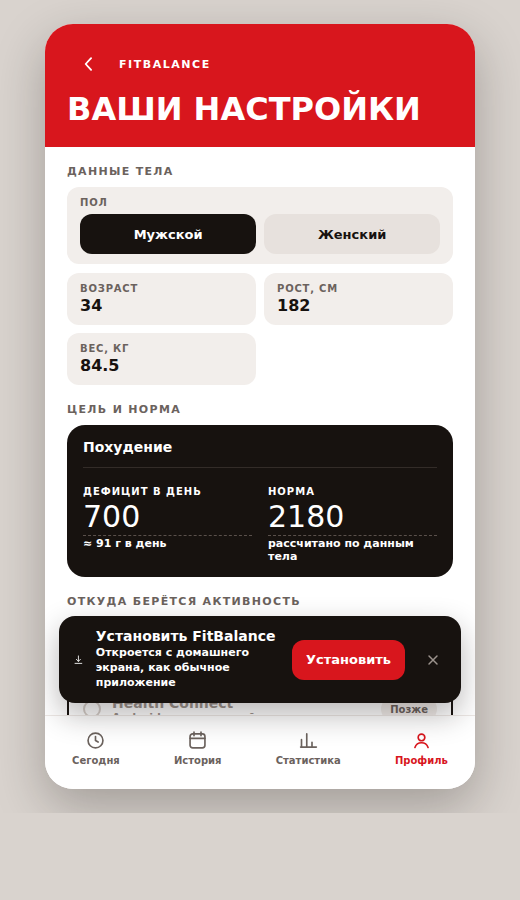
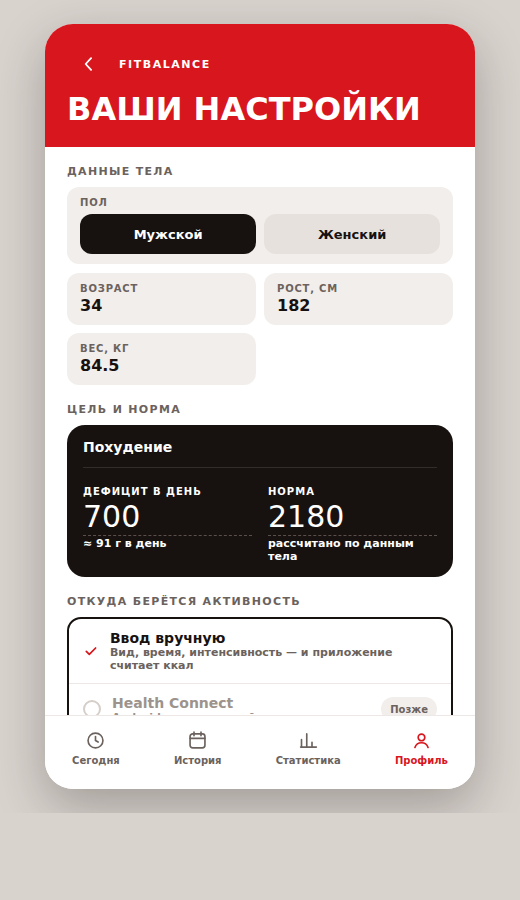
Explain where the cloud API key comes from
The key field said what the key was for but not how to get one, which leaves
the feature unusable to anyone who has not already got an account. The
profile now carries the steps and a link to the provider's key page.

The endpoint is a free-text field, so the hint follows it: DeepSeek, OpenAI
and Google AI Studio each get their own wording and link, anything else falls
back to "your provider's own dashboard" with no link rather than a wrong one.
The match is on the host, because Gemini's compatibility endpoint carries
"openai" in its path and would otherwise be claimed by the OpenAI rule.

Also, two things the cloud feature left behind: the profile disclaimer still
promised photos never leave the device, and the endpoint field was half a row
wide, which truncates every URL it will ever hold.

Claude-Session: https://claude.ai/code/session_01SYGjBYB5GgEVdNmkwsUcSC

Changed region(s): [[0.0923, 0.6844, 0.9231, 0.8089]]

diff --git a/prototype/app.js b/prototype/app.js
@@ -42,6 +42,11 @@
       'cloud.explain': 'Необязательно. Если вписать ключ, на экране фото появится кнопка «Уточнить в облаке» — она отправляет один снимок выбранной модели. Без неё всё остаётся на телефоне.',
       'cloud.key': 'API-ключ', 'cloud.model': 'Модель', 'cloud.endpoint': 'Эндпоинт',
       'cloud.storage': 'Ключ хранится только в этом браузере и уходит только на указанный эндпоинт.',
+      'cloud.getDeepseek': 'Где взять ключ: зарегистрируйтесь на platform.deepseek.com, пополните баланс (DeepSeek работает по предоплате) и создайте ключ в разделе API keys. Ключ показывают один раз — скопируйте сразу.',
+      'cloud.getOpenai': 'Где взять ключ: platform.openai.com, раздел API keys. Нужен оплаченный баланс; ключ показывают один раз.',
+      'cloud.getGemini': 'Где взять ключ: Google AI Studio, кнопка Create API key. Есть бесплатный лимит.',
+      'cloud.getGeneric': 'Ключ берётся в личном кабинете вашего провайдера — там же, где он выдаёт API-доступ.',
+      'cloud.openPage': 'Открыть страницу ключей →',
       'cloud.refine': 'Уточнить в облаке', 'cloud.sending': 'Отправляю снимок…',
       'cloud.willSend': 'Снимок уйдёт в {model}. Это единственный случай, когда фото покидает телефон.',
       'cloud.needKey': 'Чтобы включить, впишите API-ключ в профиле.',
@@ -95,7 +100,7 @@
       'prof.manualHint': 'Вид, время, интенсивность — и приложение считает ккал',
       'prof.healthConnect': 'Health Connect', 'prof.healthHint': 'Android, в следующей версии', 'prof.later': 'Позже',
       'prof.language': 'Язык',
-      'prof.disclaimer': 'Фото разбираются на устройстве и никуда не уходят. Жировой эквивалент (7 700 ккал = 1 кг) — условный ориентир, а не измерение состава тела.',
+      'prof.disclaimer': 'Фото разбираются на устройстве; наружу снимок уходит только по кнопке «Уточнить в облаке». Жировой эквивалент (7 700 ккал = 1 кг) — условный ориентир, а не измерение состава тела.',
       'prof.reset': 'Сбросить данные до демо', 'prof.resetDone': 'Данные сброшены',
 
       'install.title': 'Установить FitBalance',
@@ -147,6 +152,11 @@
       'cloud.explain': 'Optional. With a key set, the photo screen gets an "Ask the cloud" button that sends one picture to the model you choose. Without it, everything stays on the phone.',
       'cloud.key': 'API key', 'cloud.model': 'Model', 'cloud.endpoint': 'Endpoint',
       'cloud.storage': 'The key is kept in this browser only, and is sent to the configured endpoint and nowhere else.',
+      'cloud.getDeepseek': 'Where to get one: sign up at platform.deepseek.com, top up the balance (DeepSeek bills up front), then create a key under API keys. The key is shown once — copy it straight away.',
+      'cloud.getOpenai': 'Where to get one: platform.openai.com, under API keys. Needs a funded balance; the key is shown once.',
+      'cloud.getGemini': 'Where to get one: Google AI Studio, the Create API key button. It has a free tier.',
+      'cloud.getGeneric': 'The key comes from your provider\u2019s own dashboard, wherever it hands out API access.',
+      'cloud.openPage': 'Open the keys page →',
       'cloud.refine': 'Ask the cloud', 'cloud.sending': 'Sending the picture…',
       'cloud.willSend': 'The picture goes to {model}. This is the only time a photo leaves the phone.',
       'cloud.needKey': 'Add an API key in the profile to enable this.',
@@ -199,7 +209,7 @@
       'prof.manualHint': 'Type, duration, intensity — the app does the calories',
       'prof.healthConnect': 'Health Connect', 'prof.healthHint': 'Android, next release', 'prof.later': 'Later',
       'prof.language': 'Language',
-      'prof.disclaimer': 'Photos are analysed on the device and never leave it. The fat equivalent (7,700 kcal = 1 kg) is a conventional figure, not a body-composition measurement.',
+      'prof.disclaimer': 'Photos are analysed on the device; a picture only leaves it through the "Ask the cloud" button. The fat equivalent (7,700 kcal = 1 kg) is a conventional figure, not a body-composition measurement.',
       'prof.reset': 'Reset the data to demo', 'prof.resetDone': 'Data reset',
 
       'install.title': 'Install FitBalance',
@@ -1075,6 +1085,7 @@
       g: num(Math.round(state.target / KCAL_PER_KG * 1000))
     });
     el('p-goal').textContent = t(state.target > 0 ? 'prof.lose' : 'prof.maintain');
+    renderCloudHelp();
     el('p-age').value = state.age;
     el('p-height').value = state.height;
     el('p-weight').value = state.weight;
@@ -1089,6 +1100,41 @@
   /* Set by wire(); the photo screen owns the button, but a language switch has
      to reach it from here. */
   var refreshCloudButton = function () {};
+
+  /* The endpoint is a free-text field, so the "where do I get a key" line
+     follows whatever provider is actually configured. */
+  var KEY_SOURCES = [
+    { host: 'deepseek', copy: 'cloud.getDeepseek', url: 'https://platform.deepseek.com/api_keys' },
+    { host: 'openai', copy: 'cloud.getOpenai', url: 'https://platform.openai.com/api-keys' },
+    { host: 'googleapis', copy: 'cloud.getGemini', url: 'https://aistudio.google.com/apikey' },
+    { host: 'google', copy: 'cloud.getGemini', url: 'https://aistudio.google.com/apikey' }
+  ];
+
+  function keySource(endpoint) {
+    /* Matched on the host alone: Gemini's compatibility endpoint carries
+       "openai" in its path, which would otherwise claim it for OpenAI. */
+    var host = String(endpoint || '').toLowerCase();
+    try { host = new URL(endpoint).host.toLowerCase(); } catch (err) { /* as typed */ }
+    for (var i = 0; i < KEY_SOURCES.length; i += 1) {
+      if (host.indexOf(KEY_SOURCES[i].host) !== -1) { return KEY_SOURCES[i]; }
+    }
+    return null;
+  }
+
+  function renderCloudHelp() {
+    var config = CloudRecognition.settings(state.cloud);
+    var source = keySource(config.endpoint);
+    var link = el('cloud-help-link');
+    el('cloud-help-steps').textContent = t(source ? source.copy : 'cloud.getGeneric');
+    if (source) {
+      link.href = source.url;
+      link.textContent = t('cloud.openPage');
+      link.removeAttribute('hidden');
+    } else {
+      link.removeAttribute('href');
+      link.textContent = '';
+    }
+  }
 
   function renderAll() {
     renderStaticCopy();
@@ -1402,6 +1448,7 @@
         state.cloud[key] = this.value.trim();
         save();
         renderCloudButton();
+        renderCloudHelp();
       });
     }
     refreshCloudButton = renderCloudButton;

diff --git a/prototype/index.html b/prototype/index.html
@@ -358,9 +358,18 @@
       <label class="tile__k" for="cloud-key" data-i18n="cloud.key">API-ключ</label>
       <input id="cloud-key" type="password" autocomplete="off" spellcheck="false" placeholder="sk-…">
     </div>
-    <div class="grid2">
-      <div class="tile"><label class="tile__k" for="cloud-model" data-i18n="cloud.model">Модель</label><input id="cloud-model" type="text" autocomplete="off" spellcheck="false"></div>
-      <div class="tile"><label class="tile__k" for="cloud-endpoint" data-i18n="cloud.endpoint">Эндпоинт</label><input id="cloud-endpoint" type="url" autocomplete="off" spellcheck="false"></div>
+    <div class="cloud-help" id="cloud-help">
+      <span id="cloud-help-steps"></span>
+      <a id="cloud-help-link" class="link" target="_blank" rel="noopener noreferrer"></a>
+    </div>
+    <div class="tile tile--wide">
+      <label class="tile__k" for="cloud-model" data-i18n="cloud.model">Модель</label>
+      <input id="cloud-model" type="text" autocomplete="off" spellcheck="false">
+    </div>
+    <!-- An endpoint URL is long; on a phone it needs the whole row to be readable. -->
+    <div class="tile tile--wide">
+      <label class="tile__k" for="cloud-endpoint" data-i18n="cloud.endpoint">Эндпоинт</label>
+      <input id="cloud-endpoint" type="url" autocomplete="off" spellcheck="false">
     </div>
     <div class="cloud-hint" style="margin:6px 22px 0" data-i18n="cloud.storage">Ключ хранится только в этом браузере и уходит только на указанный эндпоинт.</div>
 

diff --git a/prototype/styles.css b/prototype/styles.css
@@ -630,3 +630,16 @@ button, .btn { font: inherit; border: 0; background: none; color: inherit; curso
   font-weight: 700;
   color: var(--ink);
 }
+
+.cloud-help {
+  margin: 8px 22px 0;
+  padding: 10px 12px;
+  border-radius: 12px;
+  background: var(--surface);
+  font-size: 11px;
+  font-weight: 600;
+  line-height: 1.45;
+  color: var(--ink-muted);
+}
+.cloud-help .link { display: inline-block; margin-top: 4px; font-size: 12px; }
+.cloud-help .link:empty { display: none; }

diff --git a/README.md b/README.md
@@ -88,6 +88,8 @@ picture — downscaled to 768 px — to the configured model. The default is Dee
 
 The key is typed into the app and lives in that browser's localStorage. It is not in this
 repository, not in the deployed files, and it is sent to the configured endpoint and nowhere else.
+The profile explains where to obtain one and links to the provider's key page, following whatever
+endpoint is configured — DeepSeek, OpenAI or Google AI Studio.
 
 ## Privacy
 
